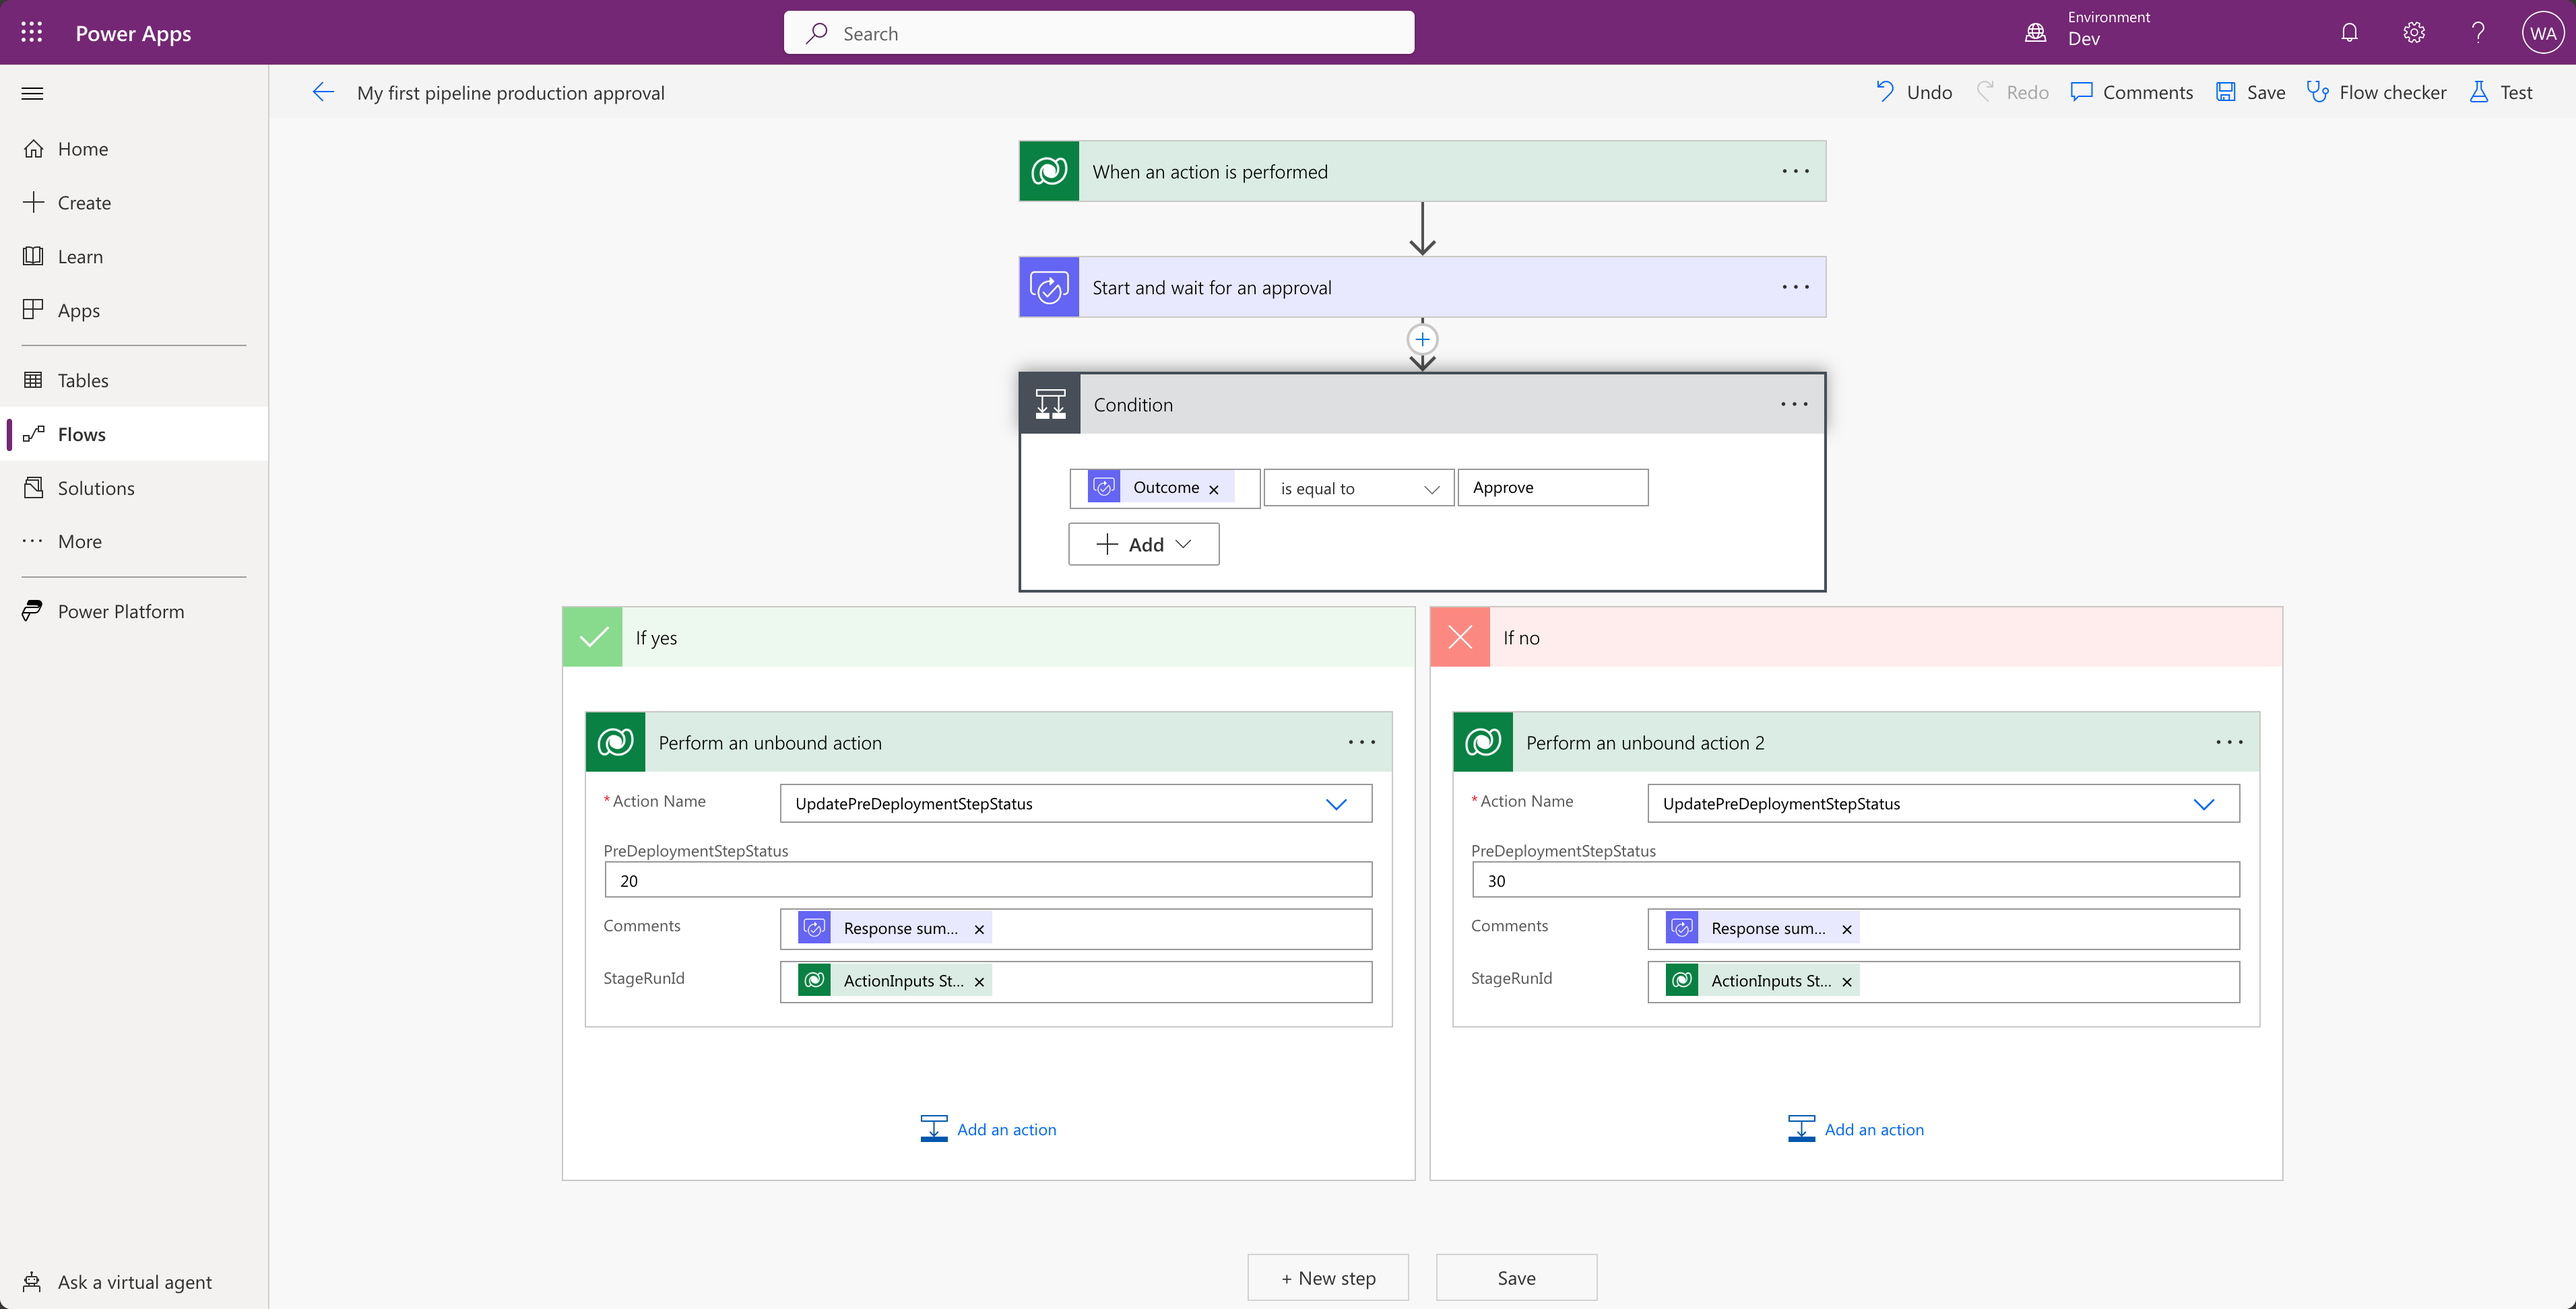
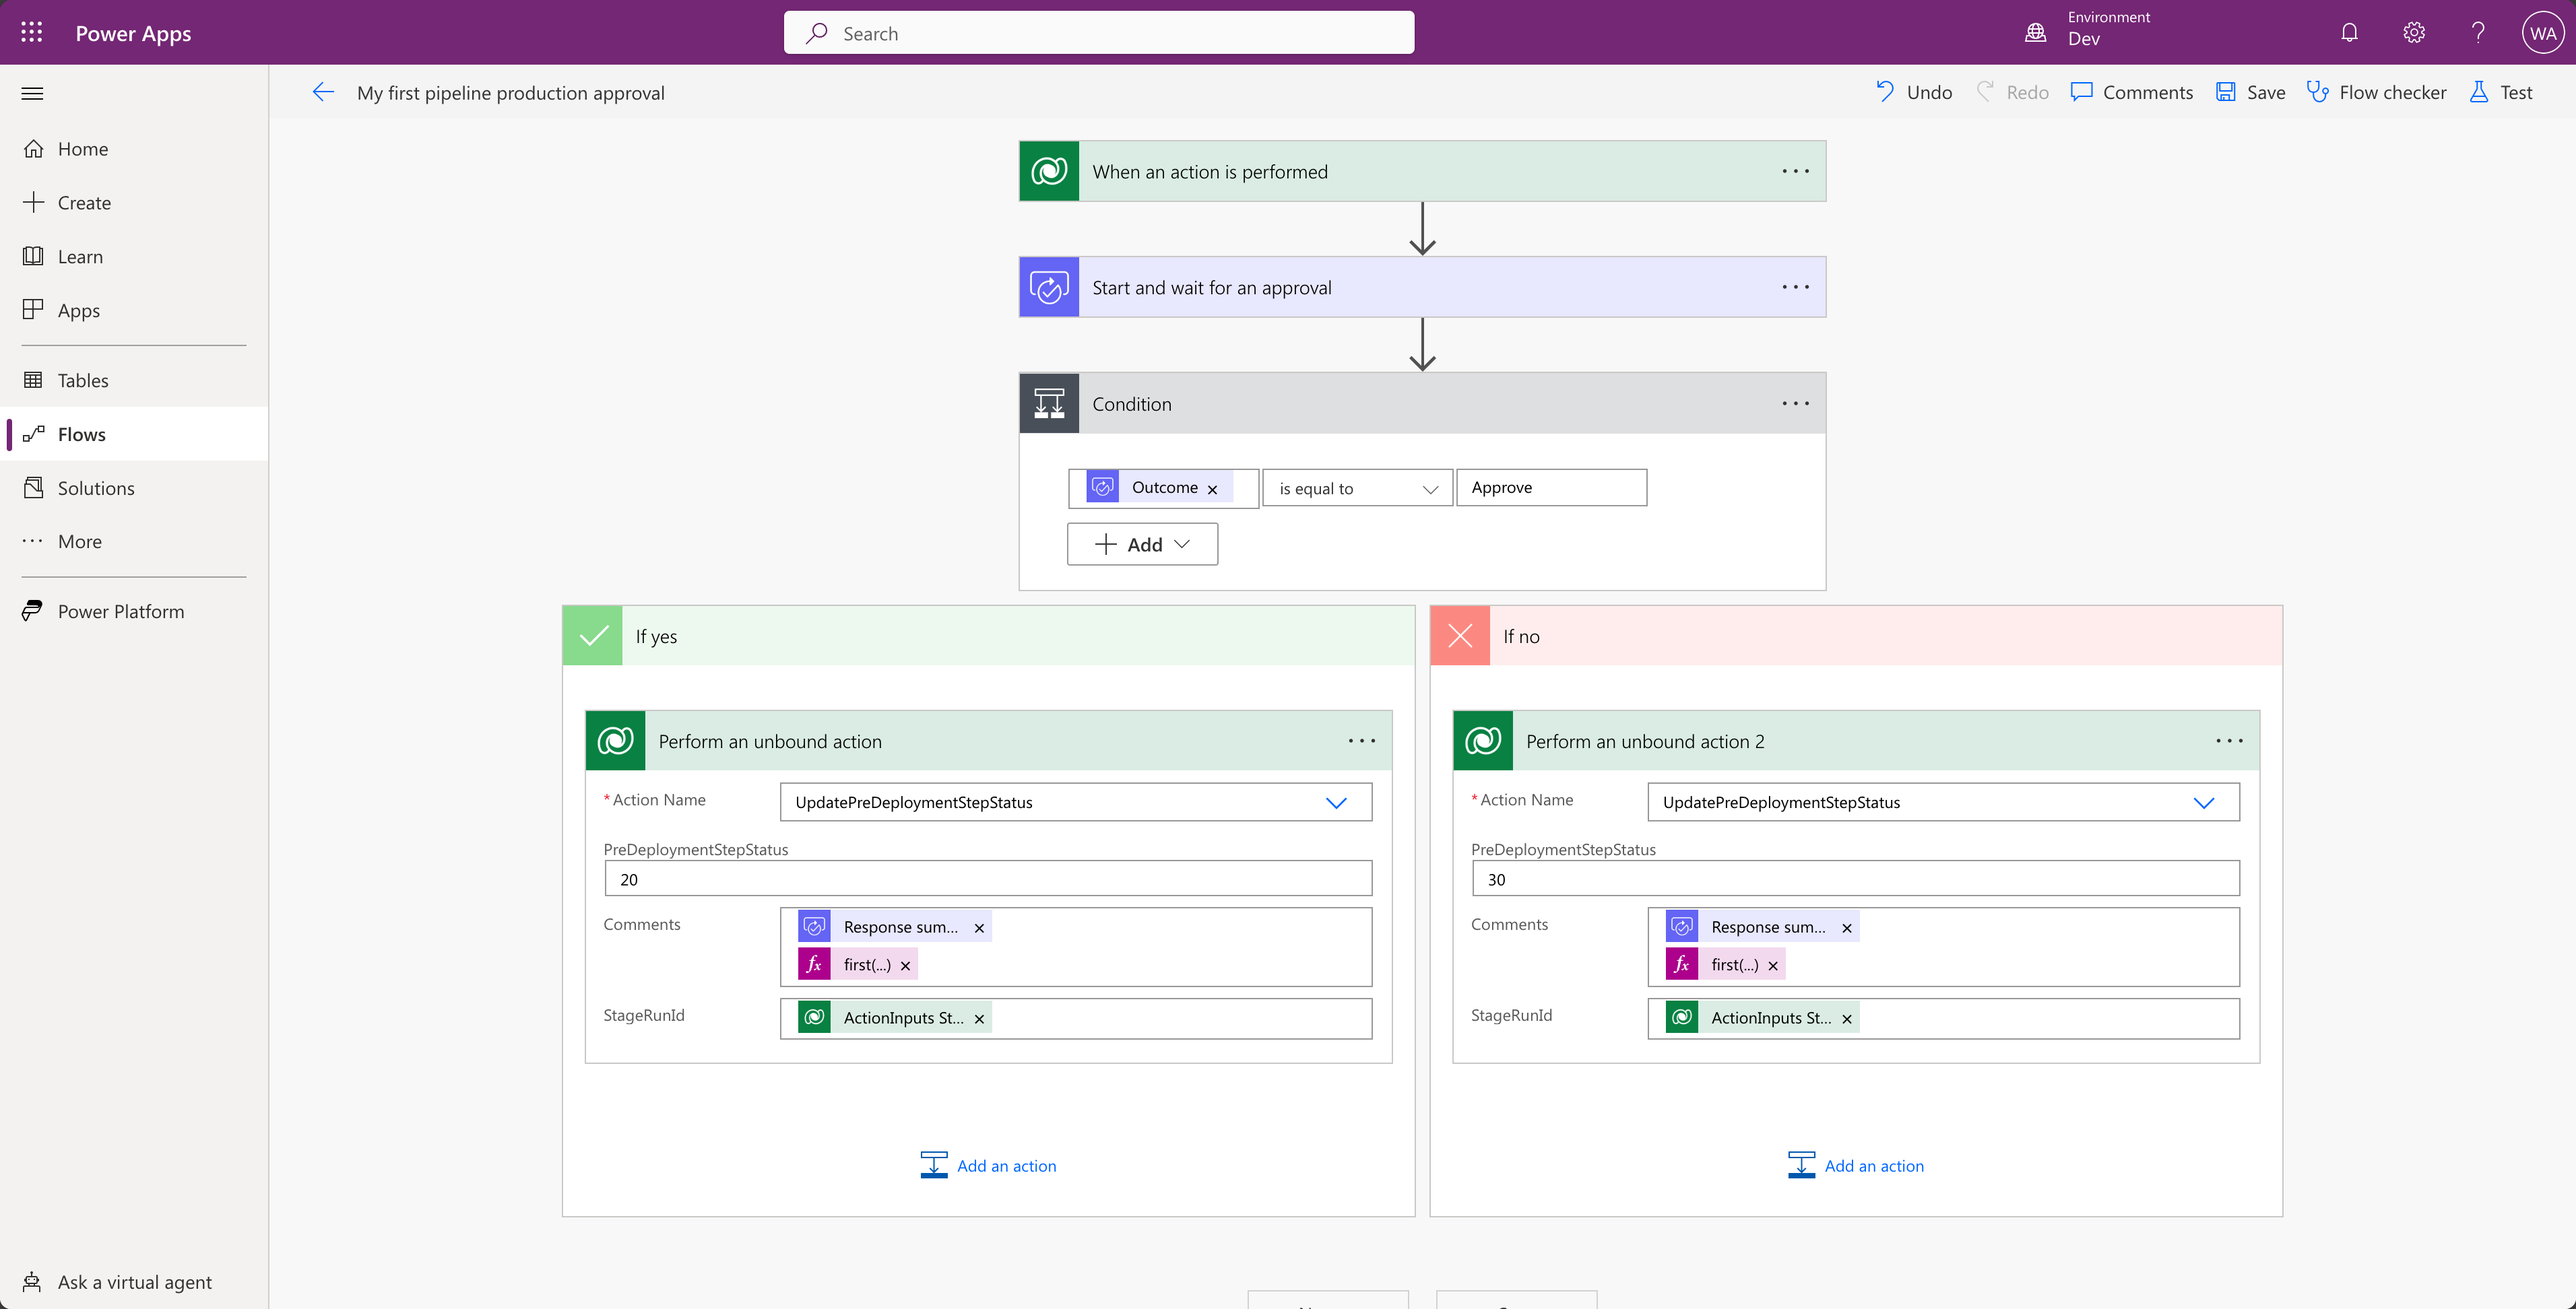
Updated with comments expression

diff --git a/Workshops/LowCodeALM/lab-05/README.md b/Workshops/LowCodeALM/lab-05/README.md
@@ -72,11 +72,15 @@ In this task, you will learn how to create an approval flow that will handle the
     Select `UpdatePreDeploymentStepStatus` as Action Name.  
     Add `20` as the PreDeploymentStepStatus (20 is the status ID for approved).  
     Add the `Response summary` dynamic content field from the `Start and wait for an approval` action as Comments.  
+    Add the following expression via the expression panel to the Comments field: `first(outputs('Start_and_wait_for_an_approval')?['body/responses'])?['comments']`  
+    ![](./assets/extend-pipeline-cloud-flow-unbound-action1-expression.png)      
     Add the `ActionInputs StageRunId` dynamic content field from the `When an action is performed` trigger as StageRunId.  
 1. Select the `New step` button in the `If no` part of the condition and add the `Perform an unbound action` action from the Microsoft Dataverse connector
     Select `UpdatePreDeploymentStepStatus` as Action Name.  
     Add `30` as the PreDeploymentStepStatus (30 is the status ID for rejected).  
     Add the `Response summary` dynamic content field from the `Start and wait for an approval` action as Comments.  
+    Add the following expression via the expression panel to the Comments field: `first(outputs('Start_and_wait_for_an_approval')?['body/responses'])?['comments']`  
+    ![](./assets/extend-pipeline-cloud-flow-unbound-action2-expression.png)  
     Add the `ActionInputs StageRunId` dynamic content field from the `When an action is performed` trigger as StageRunId.  
       
     ![](./assets/extend-pipeline-cloud-flow-unbound-actions.png)
